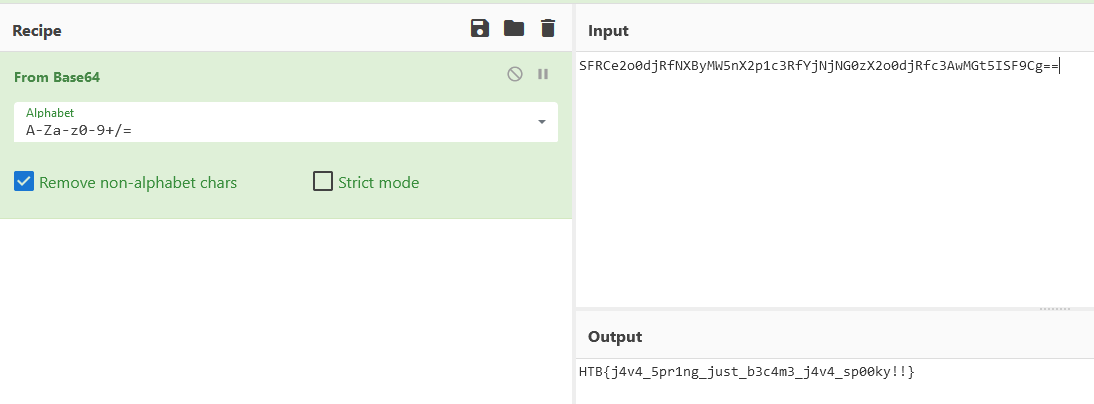
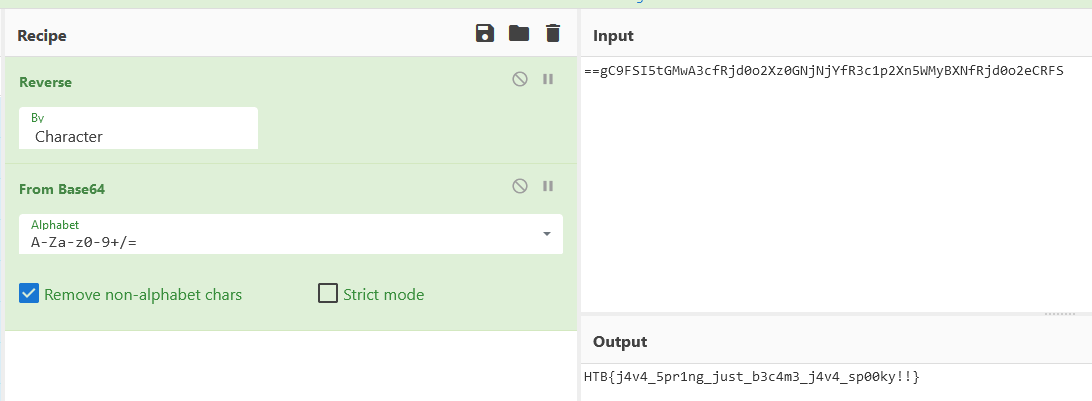
Wrong Spooky Season writeup

diff --git a/forensics/wrong_spooky_season/README.md b/forensics/wrong_spooky_season/README.md
@@ -1,5 +1,24 @@
 # Wrong Spooky Season - WRITEUP
 
-We get a .pcap file. After looking through we find some images and some commands. We can run "strings" on the .pcap file and at the end we get a very familiar looking text. We find a Base64 encoded text but in reverse order. We just use a online text reversing tool and decode the text with Cyberchef to get the flag.
+![forensics](https://img.shields.io/badge/category-forensics-brightgreen) <br>
+![difficulty](https://img.shields.io/badge/difficulty-easy-green) <br>
+![solvetime](https://img.shields.io/badge/solved-durring%20event-green)
 
-Flag: HTB{j4v4_5pr1ng_just_b3c4m3_j4v4_sp00ky!!}
+## Description
+
+> "I told them it was too soon and in the wrong season to deploy such a website, but they assured me that theming it properly would be enough to stop the ghosts from haunting us. I was wrong." Now there is an internal breach in the `Spooky Network` and you need to find out what happened. Analyze the the network traffic and find how the scary ghosts got in and what they did.
+
+Provided file is:
+- [capture.pcap](capture.pcap)
+
+## Solving process
+
+We open the given .pcap file in [Wireshark](https://www.wireshark.org/). After looking through we can find some images that were accessed and we can find a hostile command execution that was achieved with RCE. Unable to find the flag in this command execution, I just ran *strings* command on the file. We can see a Base64 encoded string at the end, but it is in reverse order.
+
+![strings](images/running_strings.png)
+
+Now we just use [Cyberchef](https://cyberchef.org) to decode the message.
+
+![cyberchef](images/cyberchef.png)
+
+**Flag:** *HTB{j4v4_5pr1ng_just_b3c4m3_j4v4_sp00ky!!}*
